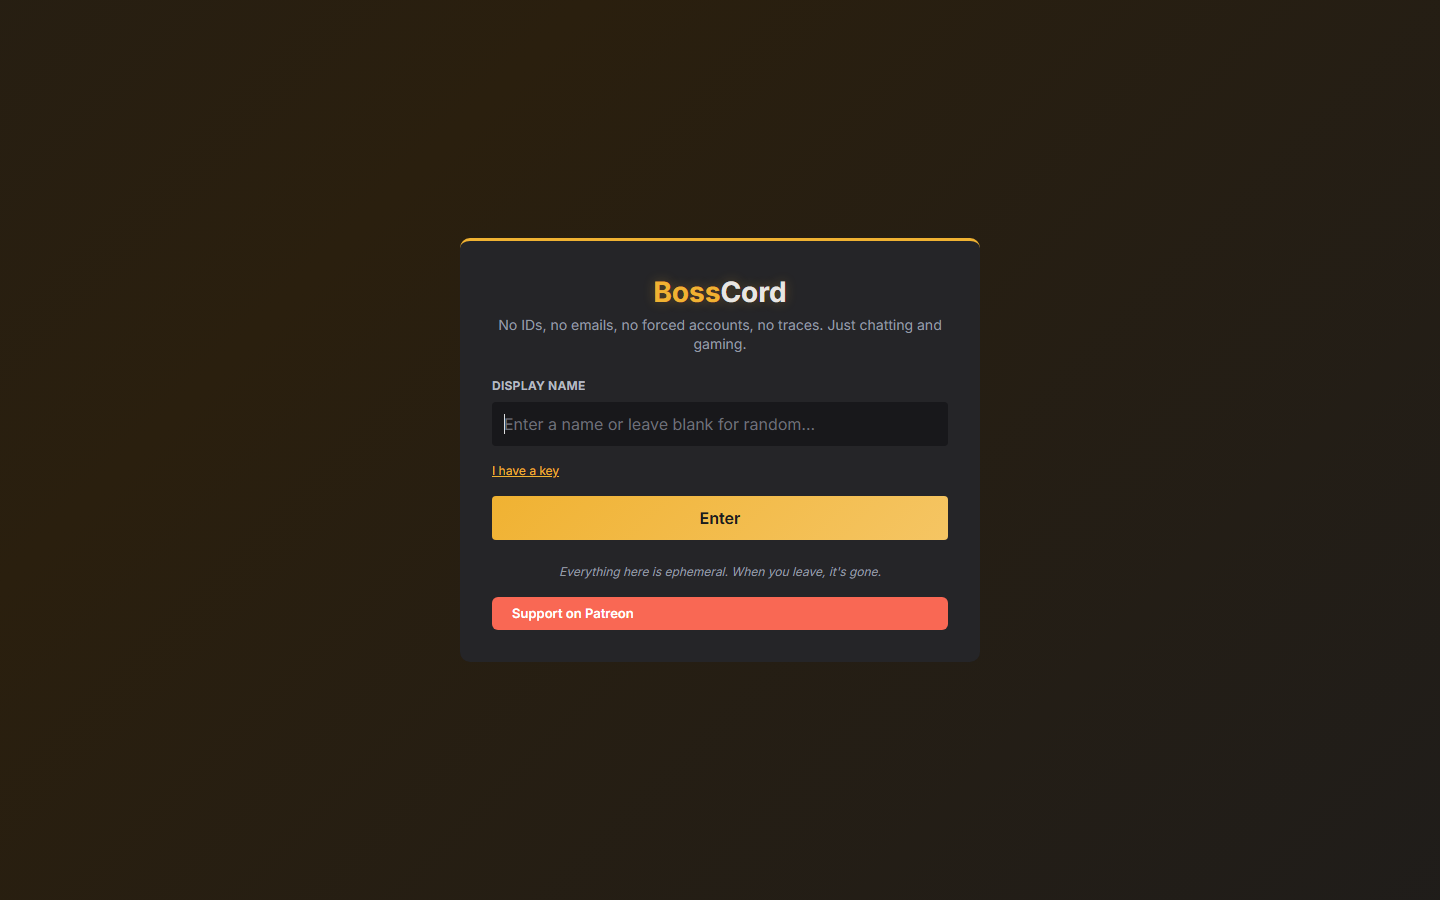
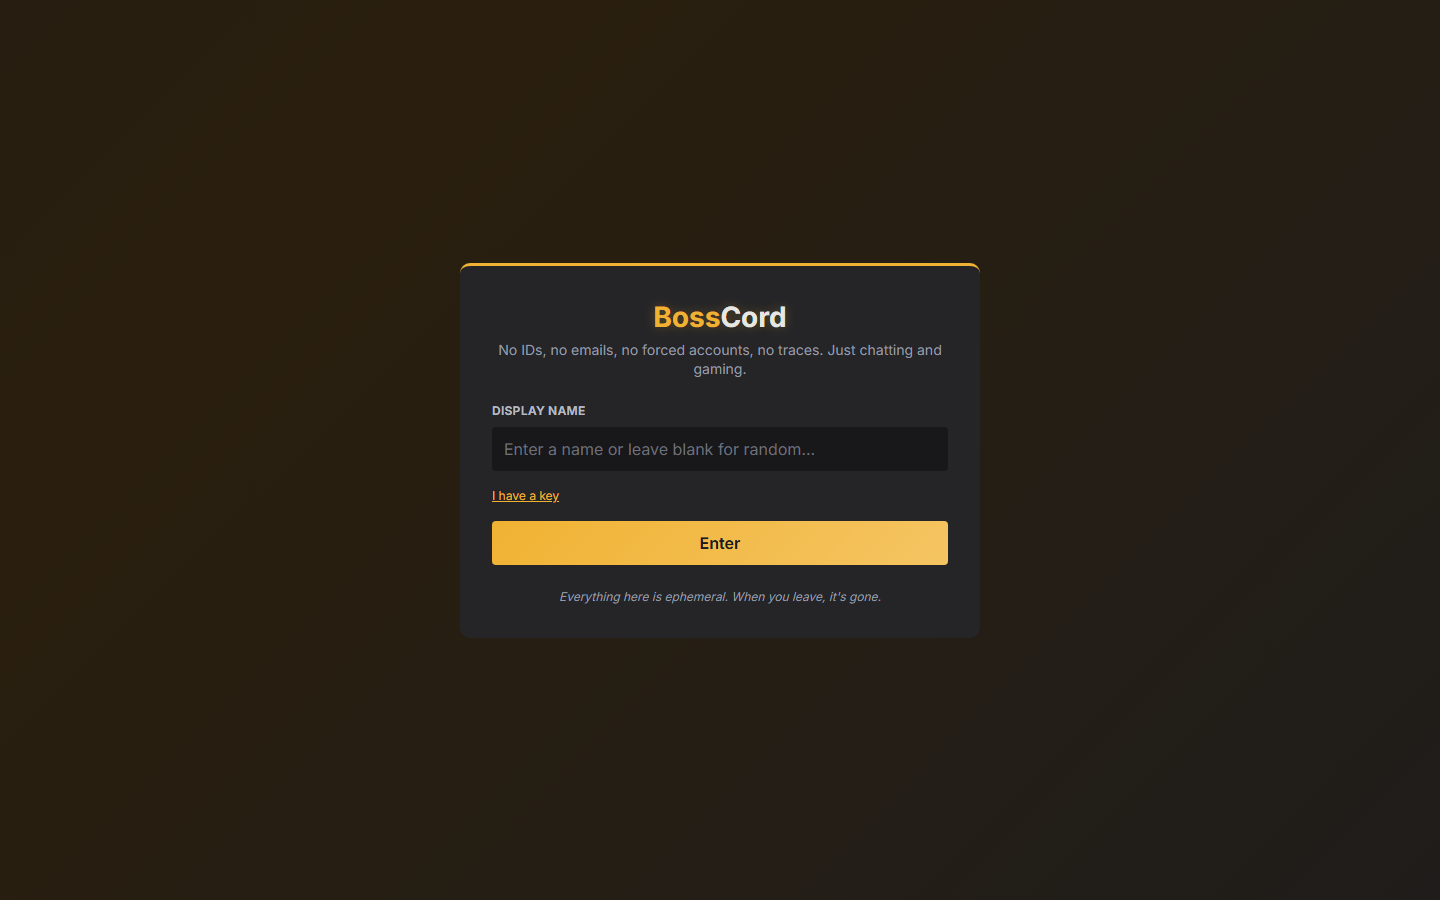
Remove Patreon links from the client
Both 'Support on Patreon' buttons (login screen + main sidebar) removed
from landing.js; README login screenshot re-captured without the button.
No other funding links remain (the package-lock 'patreon' entry is a
dependency author's funding metadata, not ours).

Changed region(s): [[0.3125, 0.2489, 0.6562, 0.7156]]

diff --git a/public/js/landing.js b/public/js/landing.js
@@ -454,19 +454,7 @@ function LandingPage() {
         }, ctx.errorMessage) : null,
         React.createElement('p', {
           style: { textAlign: 'center', color: '#949ba4', fontSize: '12px', marginTop: '24px', fontStyle: 'italic' }
-        }, 'Everything here is ephemeral. When you leave, it\'s gone.'),
-        React.createElement('a', {
-          href: 'https://patreon.com/AstraMidWestMysteryMeat?utm_medium=unknown&utm_source=join_link&utm_campaign=creatorshare_creator&utm_content=copyLink',
-          target: '_blank', rel: 'noopener noreferrer',
-          style: {
-            display: 'inline-block', marginTop: '16px', padding: '8px 20px',
-            background: '#f96854', border: 'none', borderRadius: '6px',
-            color: '#fff', fontSize: '13px', fontWeight: 600,
-            textDecoration: 'none', fontFamily: 'inherit', transition: 'background 0.15s'
-          },
-          onMouseEnter: function(e) { e.currentTarget.style.background = '#e5533d'; },
-          onMouseLeave: function(e) { e.currentTarget.style.background = '#f96854'; }
-        }, 'Support on Patreon')
+        }, 'Everything here is ephemeral. When you leave, it\'s gone.')
       )
     );
   }
@@ -1243,19 +1231,7 @@ function LandingPage() {
       ),
       React.createElement('p', {
         style: { color: '#949ba4', fontSize: '12px', fontStyle: 'italic', marginTop: '12px', display: isMobile ? 'none' : 'block' }
-      }, 'Everything here is ephemeral. When you leave, it\'s gone.'),
-      !isMobile ? React.createElement('a', {
-        href: 'https://patreon.com/AstraMidWestMysteryMeat?utm_medium=unknown&utm_source=join_link&utm_campaign=creatorshare_creator&utm_content=copyLink',
-        target: '_blank', rel: 'noopener noreferrer',
-        style: {
-          display: 'inline-block', marginTop: '10px', padding: '6px 16px',
-          background: '#f96854', borderRadius: '6px',
-          color: '#fff', fontSize: '12px', fontWeight: 600,
-          textDecoration: 'none', fontFamily: 'inherit', transition: 'background 0.15s'
-        },
-        onMouseEnter: function(e) { e.currentTarget.style.background = '#e5533d'; },
-        onMouseLeave: function(e) { e.currentTarget.style.background = '#f96854'; }
-      }, 'Support on Patreon') : null
+      }, 'Everything here is ephemeral. When you leave, it\'s gone.')
     ),
     isMobile ? React.createElement(BottomTabBar, { activeTab: topTab, onTabChange: setTopTab }) : null
   );